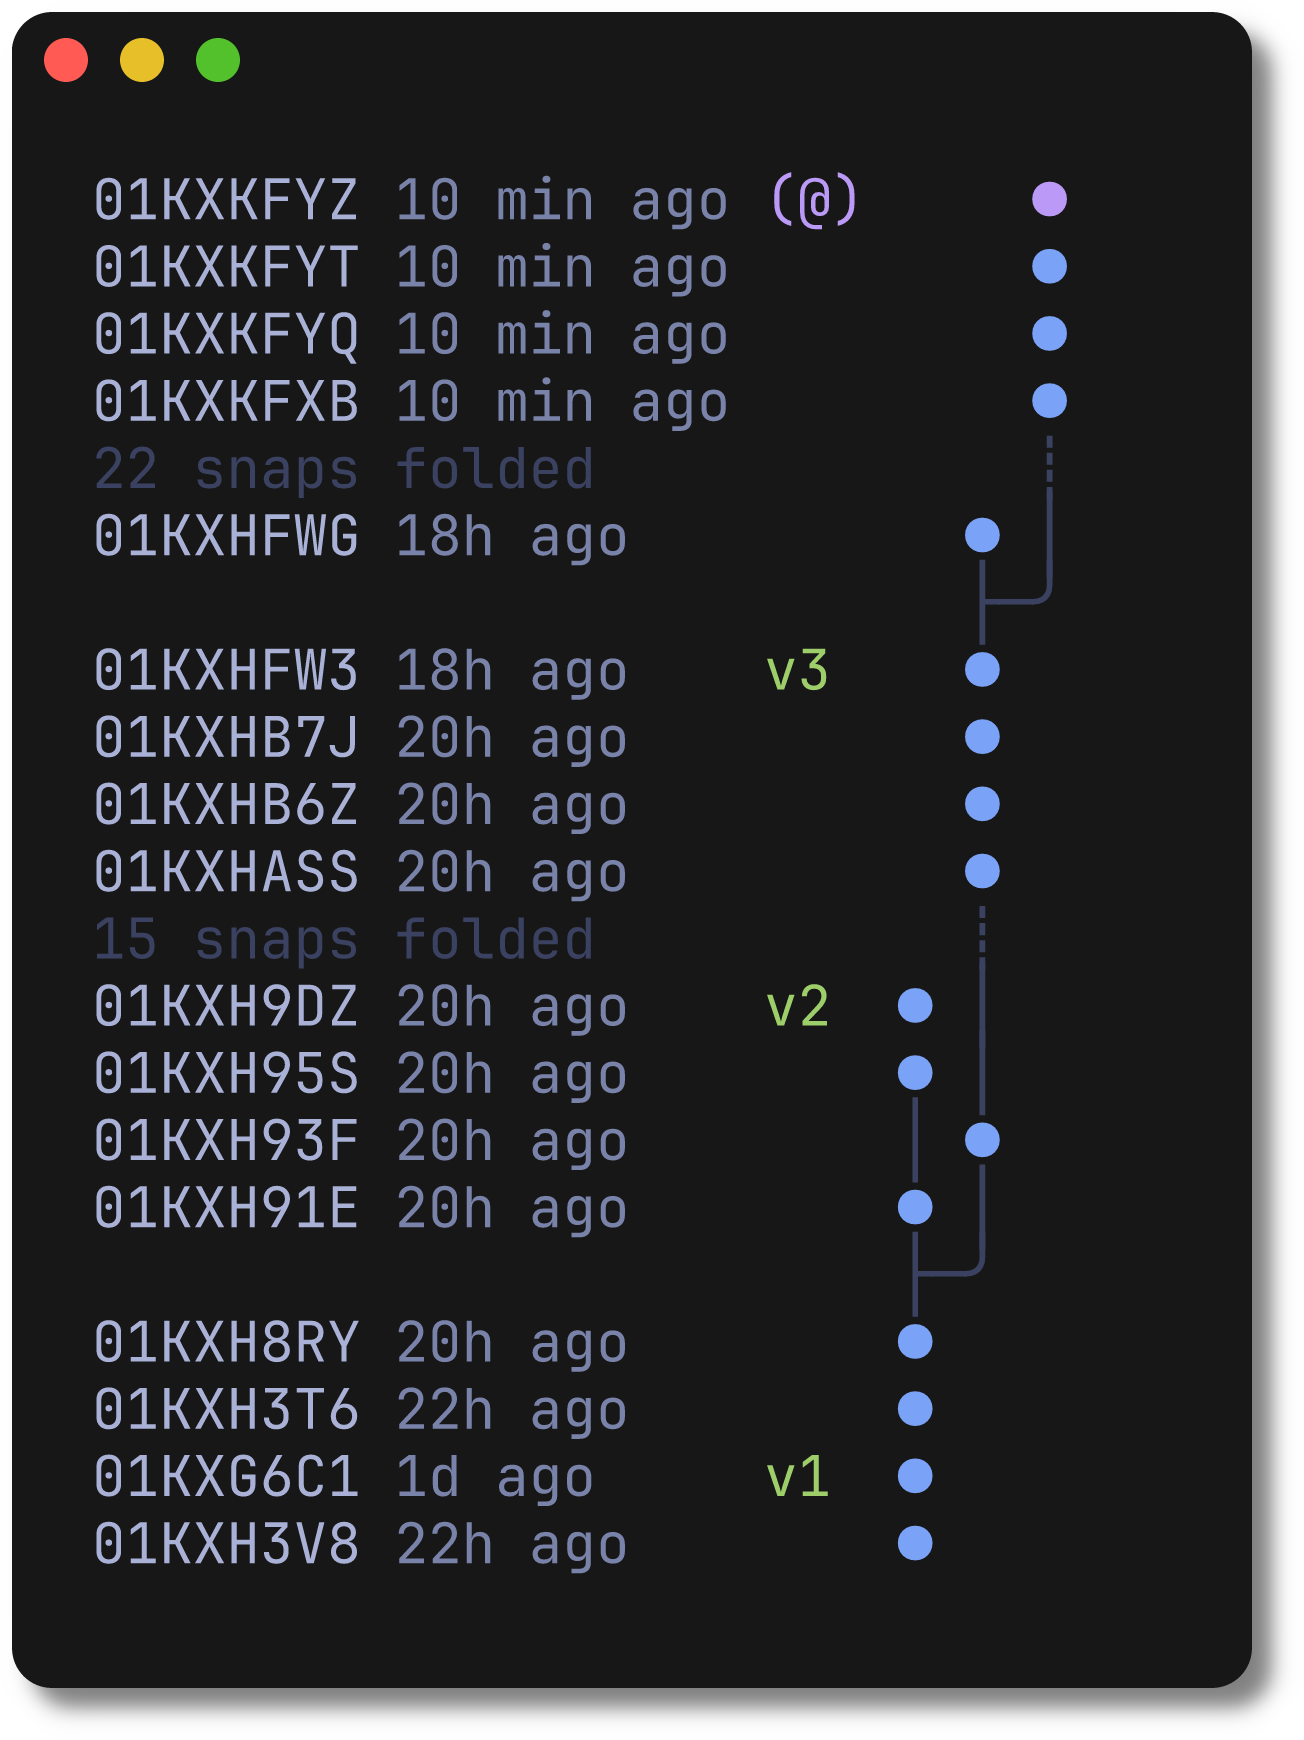
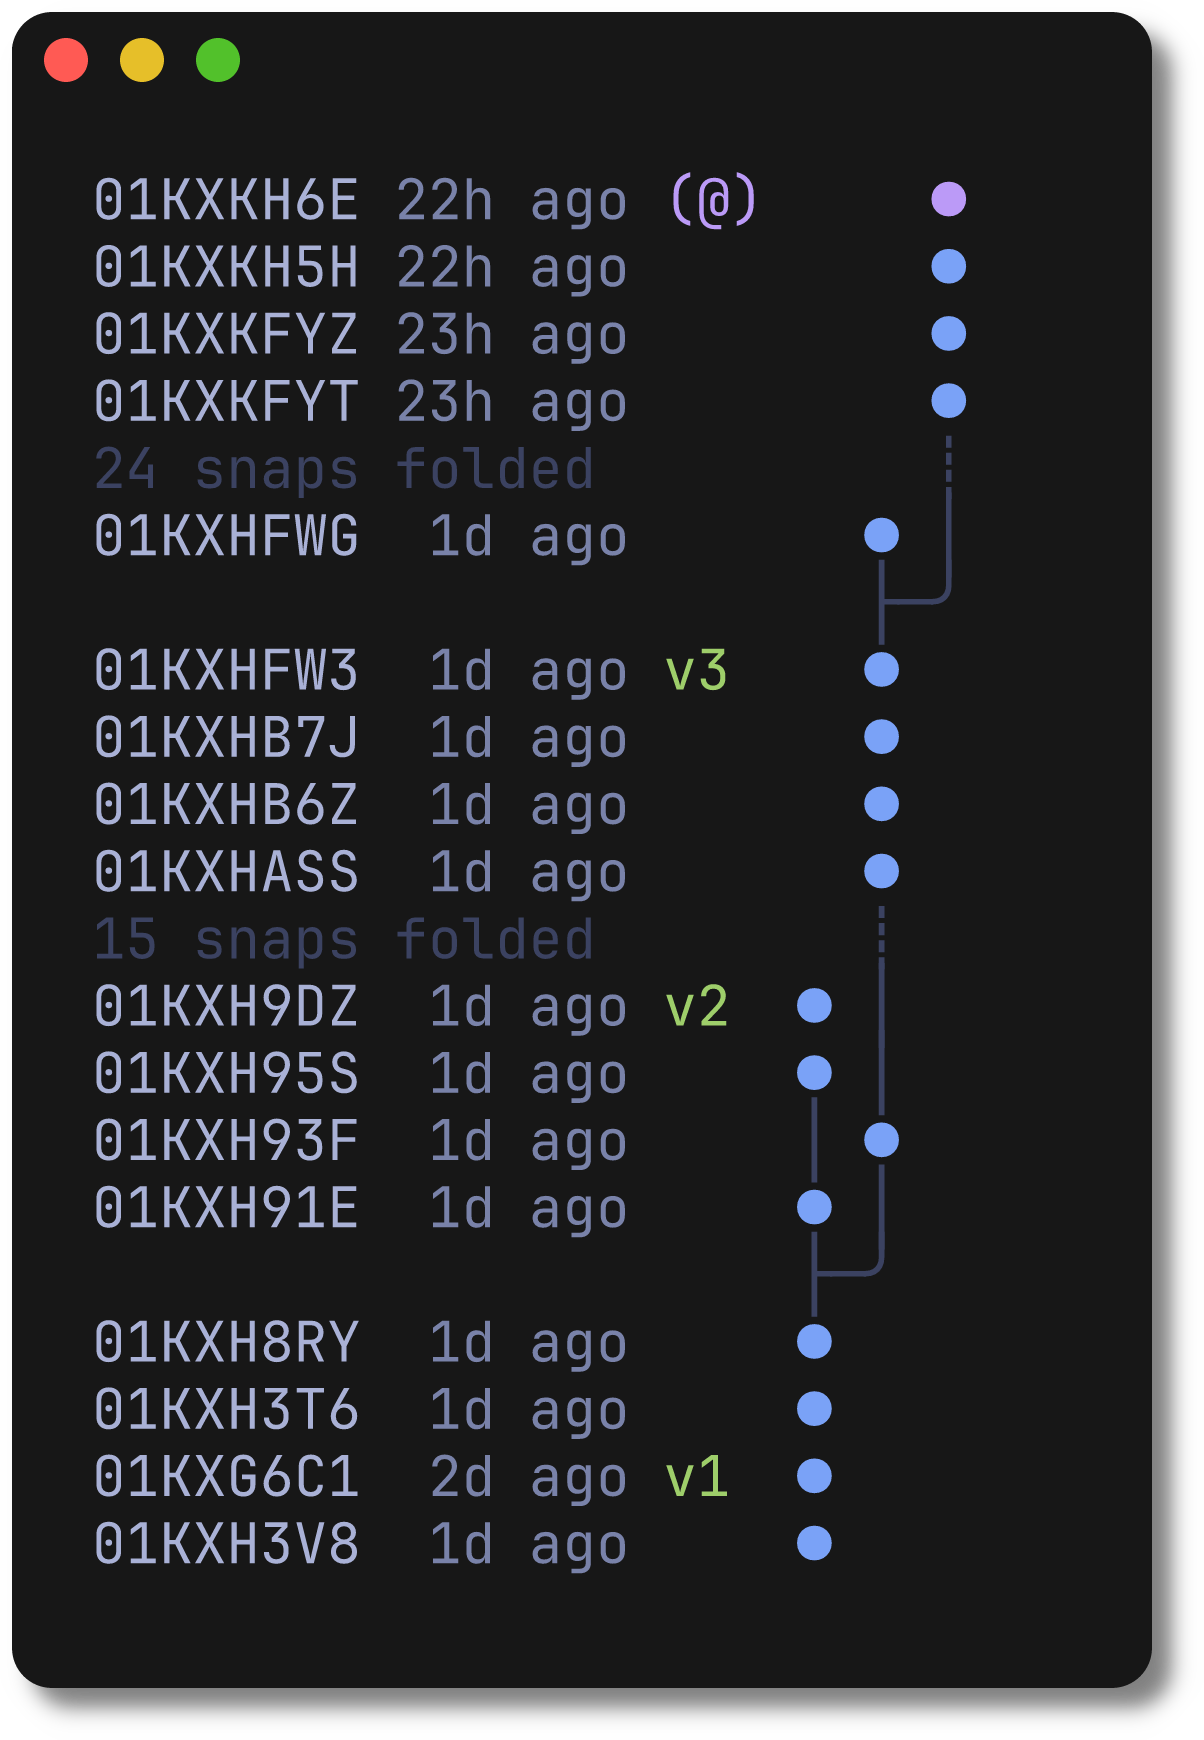
update spor docs

diff --git a/content/spor.md b/content/spor.md
@@ -145,7 +145,7 @@ Maybe there's one file from the abandoned attempt you still want, without pullin
 spor pick @~4 config.yaml
 ```
 
-If you took a wrong turn, **spor undo** (and **spor redo**) step you back and forth one snapshot at a time, no `<ref>` needed. And once a direction is clearly done, **spor drop &lt;ref&gt;** permanently deletes it and everything after it, **spor trim &lt;ref&gt;** throws away everything before a point, and **spor fold &lt;a&gt; &lt;b&gt;** squashes a noisy run of snapshots into one, if you want to tidy up before sharing. If you ever want a clean slate, **spor forget** wipes Spor's history for the project, keeping your files exactly as they are.
+If you took a wrong turn, **spor undo** (and **spor redo**) step you back and forth one snapshot at a time, no `<ref>` needed. And once a direction is clearly done, **spor drop &lt;ref&gt;** permanently deletes it and everything after it, **spor trim &lt;ref&gt;** throws away everything before a point, **spor fold &lt;a&gt; &lt;b&gt;** squashes a noisy run of snapshots into one, and **spor thin** collapses every linear run at once, keeping only your tips, branch points, and named snapshots, if you want to tidy up before sharing. If you ever want a clean slate, **spor forget** wipes Spor's history for the project, keeping your files exactly as they are.
 
 ### Commands
 
@@ -172,6 +172,7 @@ If you took a wrong turn, **spor undo** (and **spor redo**) step you back and fo
 - **spor drop &lt;ref&gt;**: permanently delete a snapshot and everything after it
 - **spor trim &lt;ref&gt;**: permanently drop everything before a snapshot, keeping it and what follows
 - **spor fold &lt;a&gt; &lt;b&gt;**: squash the run of snapshots from `a` to `b` into one
+- **spor thin**: collapse linear runs across the whole history, keeping only tips, branch points, and named snapshots
 
 **Starting over**
 